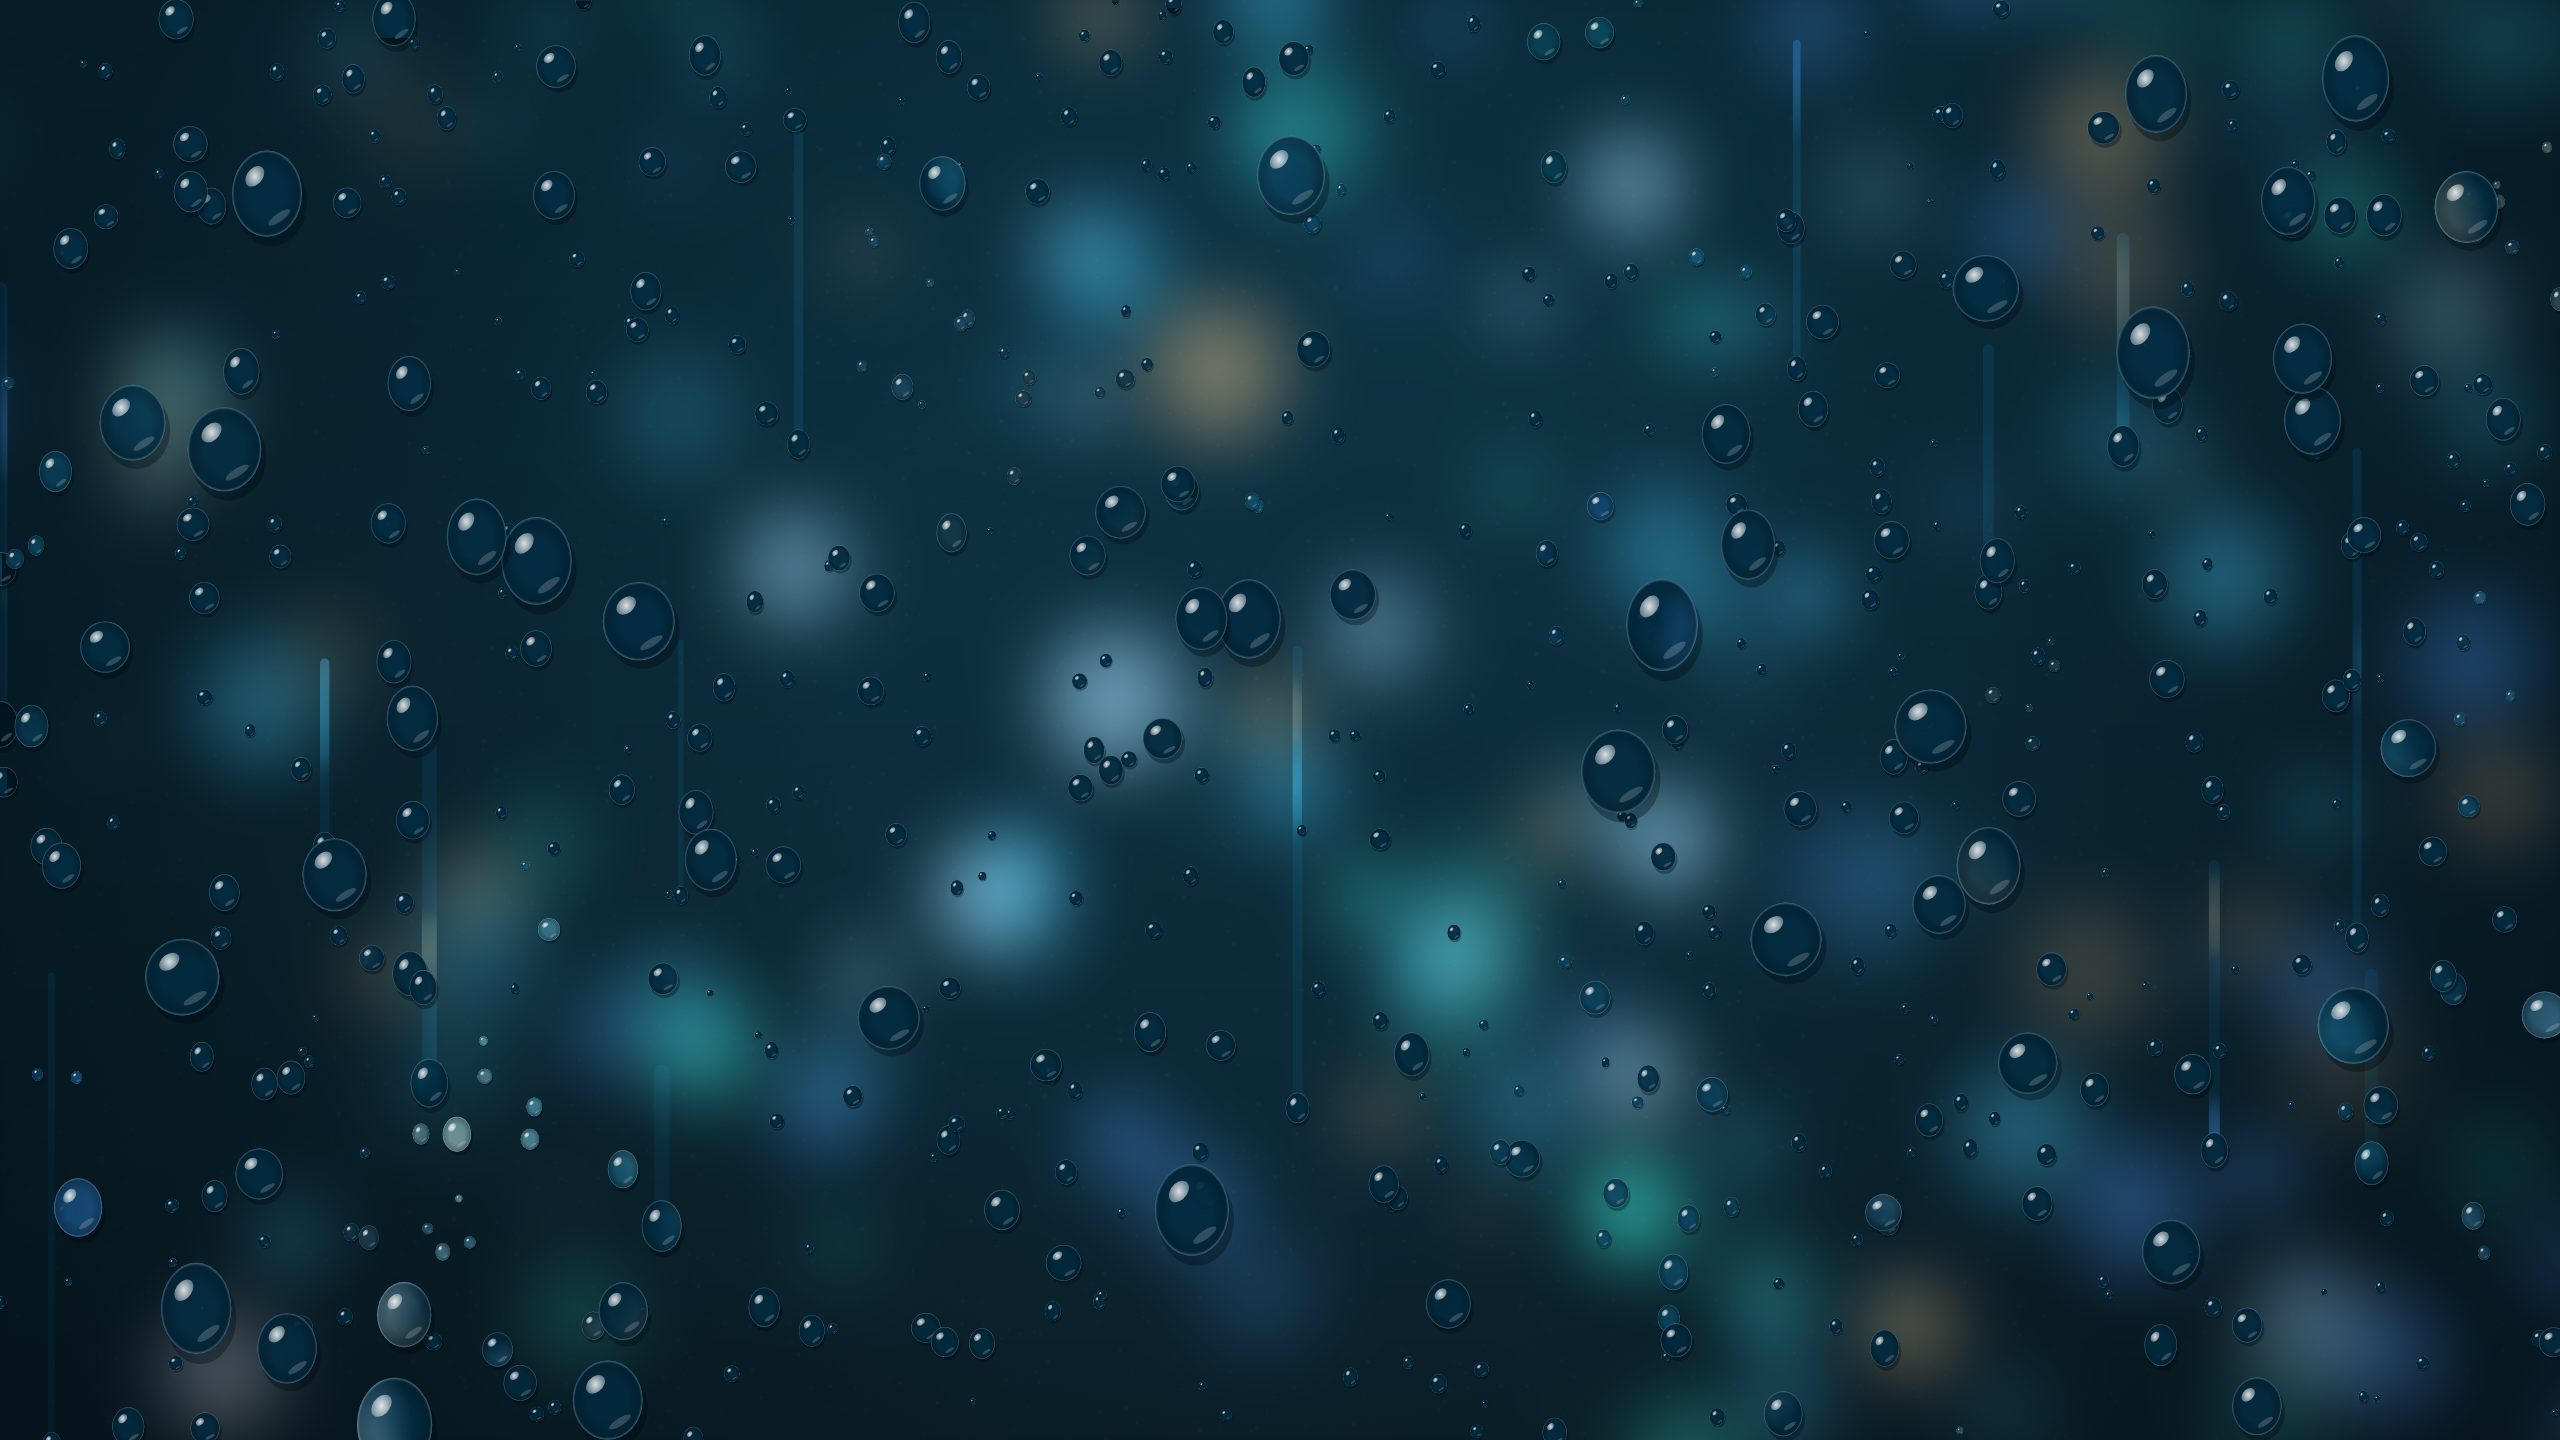
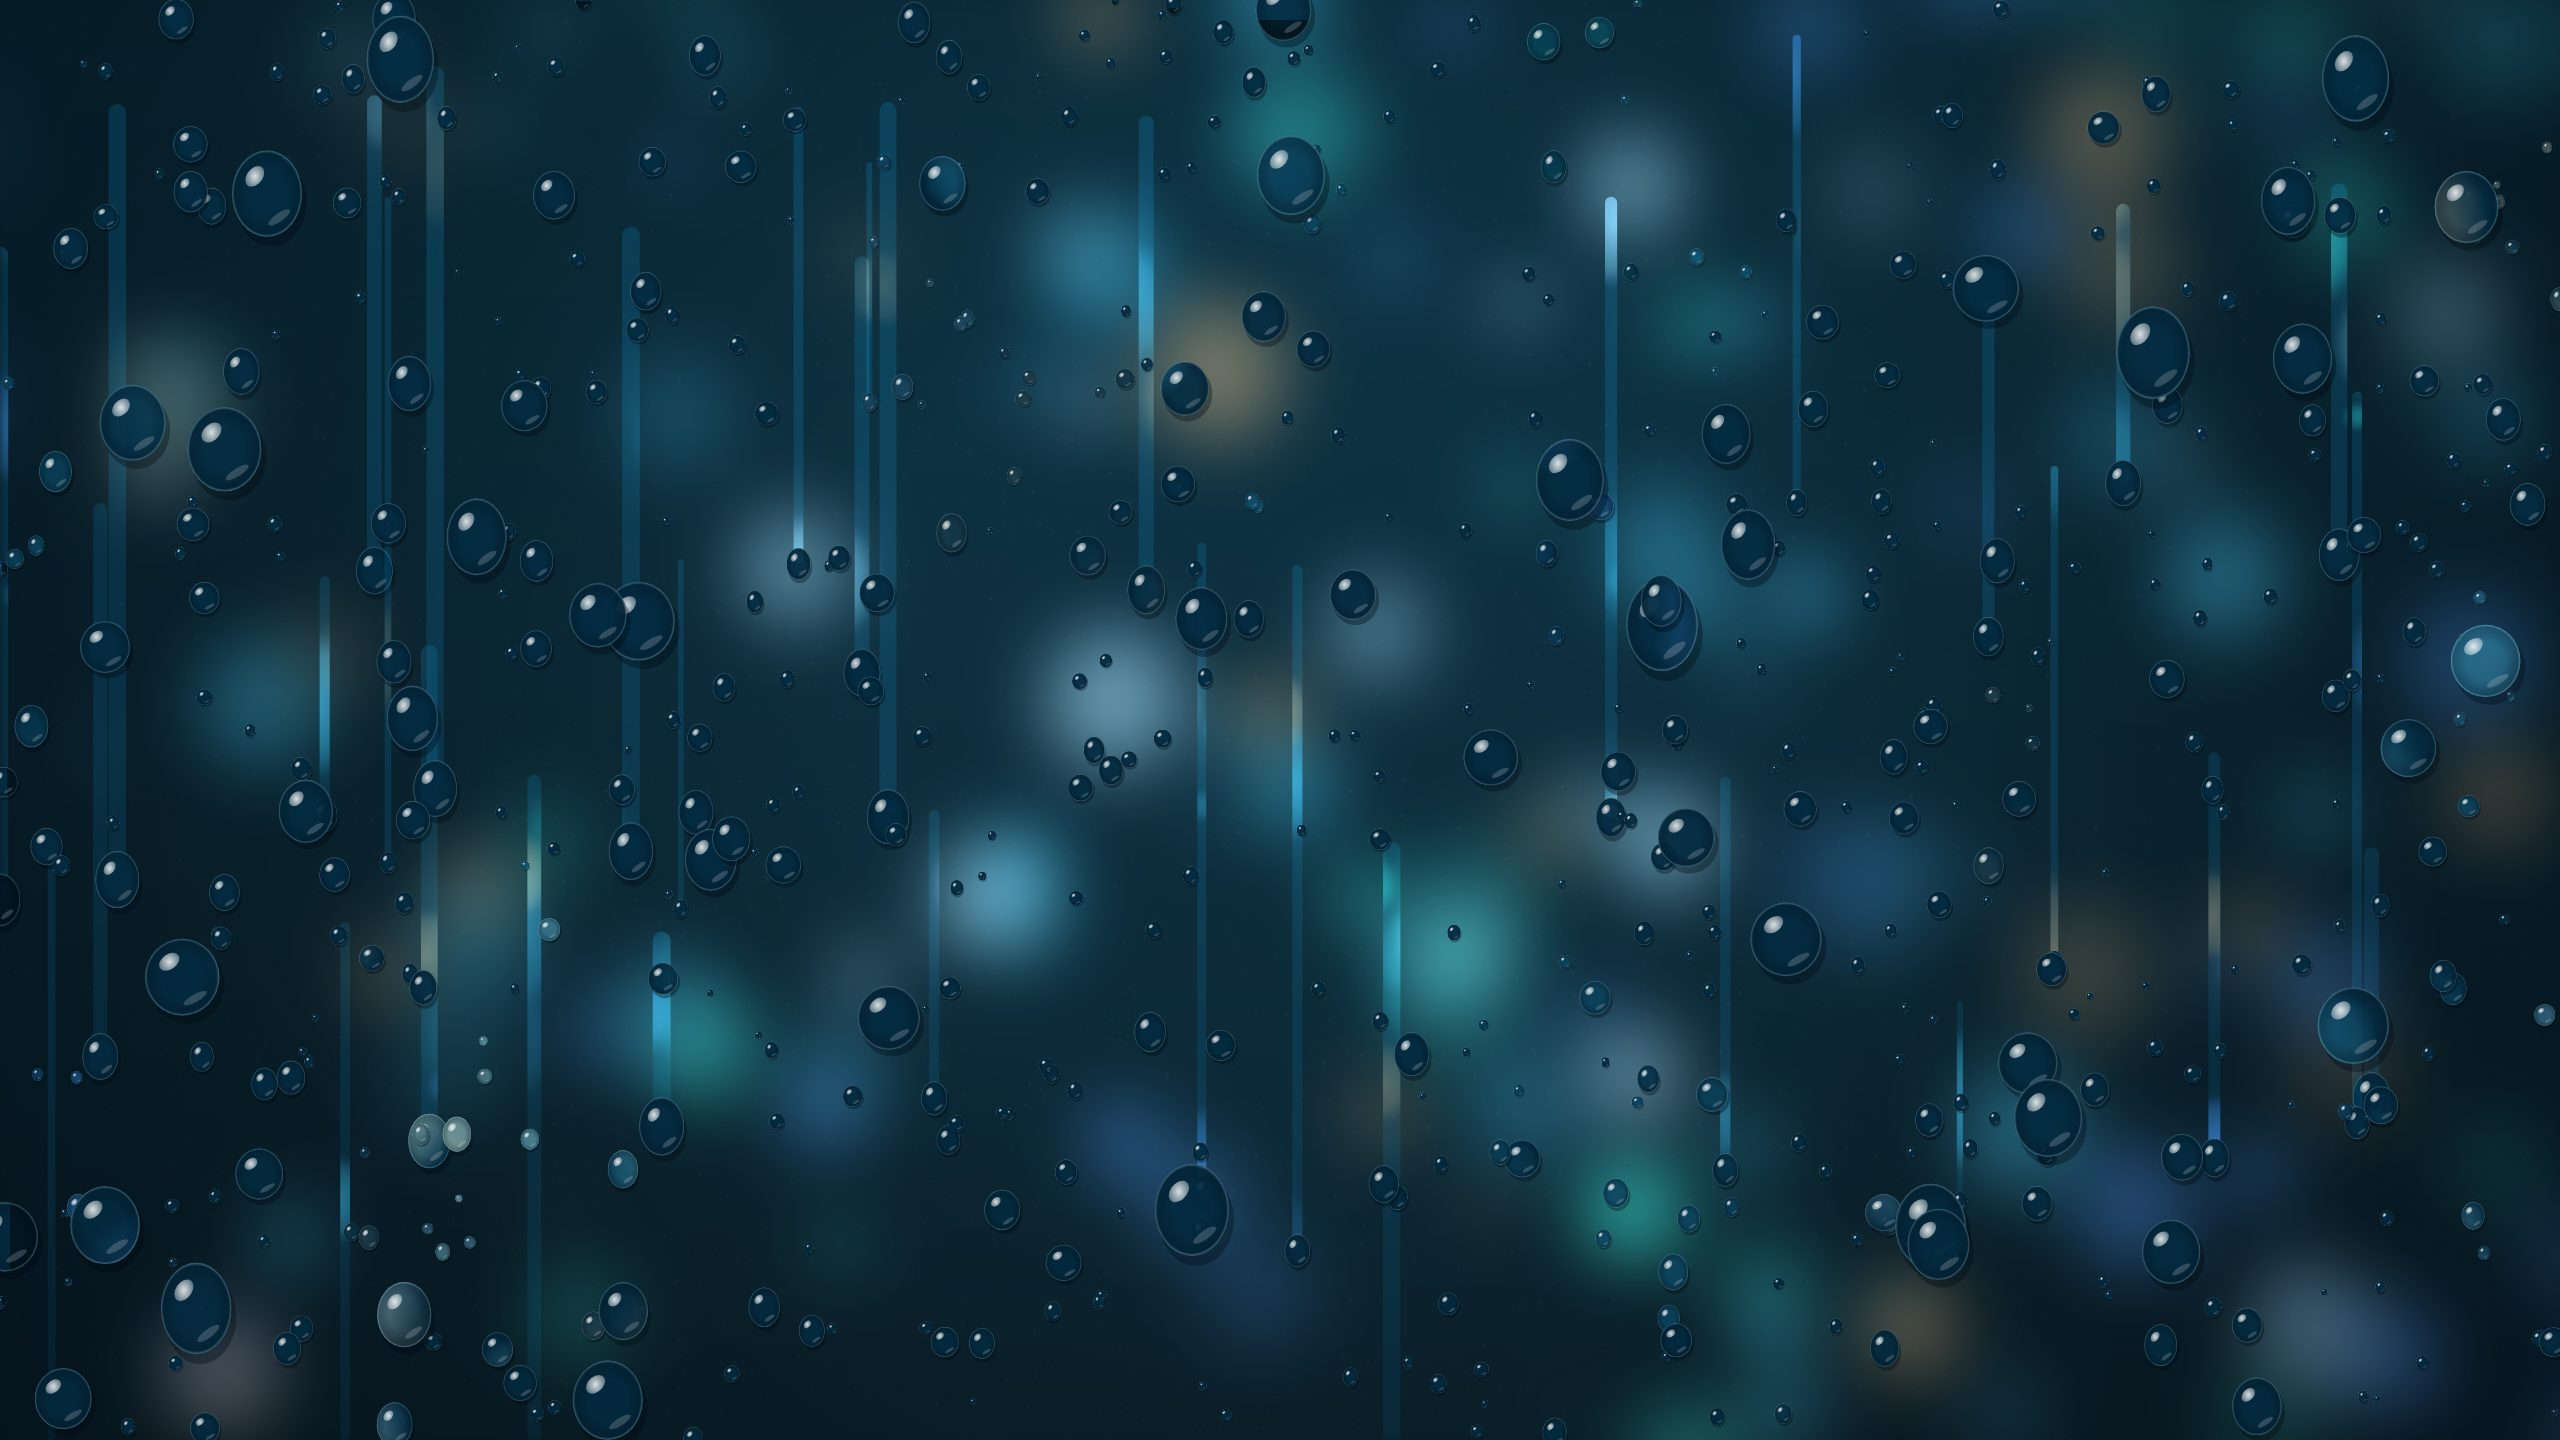
Regenglas: Laufspuren, animierte Tropfen, Hintergrund ohne Ruckeln

diff --git a/index.html b/index.html
@@ -986,9 +986,17 @@ html[lang="de"] .hero h1 .t-ru,html[lang="ru"] .hero h1 .t-de{display:none!impor
 
 /* fogged glass backdrop */
 body{background:transparent!important}
-body::before{content:"";position:fixed;inset:0;z-index:-1;background:#021a26 url(img/glass.jpg) center/cover no-repeat;transform:translateZ(0)}
+body::before{content:"";position:fixed;top:0;left:0;width:100%;height:100vh;height:max(100vh,100lvh);z-index:-1;background:#021a26 url(img/glass.jpg) center/cover no-repeat;transform:translateZ(0)}
 .hero{background:linear-gradient(180deg,rgba(2,26,38,.35),rgba(2,26,38,.55))}
 .work{background:linear-gradient(180deg,rgba(4,40,58,.74),rgba(3,31,45,.82) 50%,rgba(2,26,38,.9))!important}
+
+/* running drops (compositor-only animation) */
+.rain{position:fixed;top:0;left:0;width:100%;height:100vh;height:max(100vh,100lvh);z-index:-1;pointer-events:none;overflow:hidden;contain:strict}
+.rd{position:absolute;top:0;left:var(--x);width:var(--w);will-change:transform;transform:translate3d(0,-40vh,0);animation:rdrun var(--t) var(--dl) infinite cubic-bezier(.45,.05,.55,.95)}
+.rd::before{content:"";position:absolute;left:25%;right:25%;bottom:50%;height:var(--l);border-radius:99px;background:linear-gradient(to top,rgba(150,215,240,.26),rgba(150,215,240,0))}
+.rd::after{content:"";position:absolute;left:0;top:0;width:var(--w);height:calc(var(--w)*1.3);border-radius:50% 50% 50% 50%/45% 45% 55% 55%;background:radial-gradient(ellipse at 32% 26%,rgba(255,255,255,.8) 0 7%,rgba(255,255,255,0) 22%),radial-gradient(ellipse at 50% 55%,rgba(60,150,190,.55),rgba(3,25,38,.85) 70%);box-shadow:0 0 0 1px rgba(170,225,245,.3) inset,0 5px 8px rgba(0,8,14,.35)}
+@keyframes rdrun{0%{transform:translate3d(0,-40vh,0)}18%{transform:translate3d(0,-8vh,0)}24%{transform:translate3d(0,-6vh,0)}46%{transform:translate3d(0,32vh,0)}52%{transform:translate3d(0,34vh,0)}78%{transform:translate3d(0,78vh,0)}84%{transform:translate3d(0,80vh,0)}100%{transform:translate3d(0,125vh,0)}}
+@media(prefers-reduced-motion:reduce){.rain{display:none}}
 </style>
 <style>
 /* Mobile: tap a preview to open it full screen and scroll it live */
@@ -1006,6 +1014,7 @@ body::before{content:"";position:fixed;inset:0;z-index:-1;background:#021a26 url
 </style>
 </head>
 <body>
+<div class="rain" id="rain" aria-hidden="true"></div>
 <div class="scroll-rail" aria-hidden="true"><div class="sr-num" id="srNum">01 <small>/ 10</small></div><div class="sr-track"><div class="sr-fill" id="srFill"></div></div><div class="sr-left" id="srLeft">100%</div></div>
 
 <!-- Global Navigation -->
@@ -1672,6 +1681,7 @@ try {
   });
 })();
 </script>
+<script>(function(){var r=document.getElementById('rain');if(!r)return;var n=innerWidth<700?7:12,h='';for(var i=0;i<n;i++){var w=7+Math.random()*10;h+='<i class="rd" style="--x:'+(3+Math.random()*92).toFixed(1)+'%;--w:'+w.toFixed(1)+'px;--l:'+(110+Math.random()*260).toFixed(0)+'px;--t:'+(14+Math.random()*16).toFixed(1)+'s;--dl:-'+(Math.random()*26).toFixed(1)+'s"></i>';}r.innerHTML=h;})();</script>
 <script src="scroll.js"></script>
 </body>
 </html>
